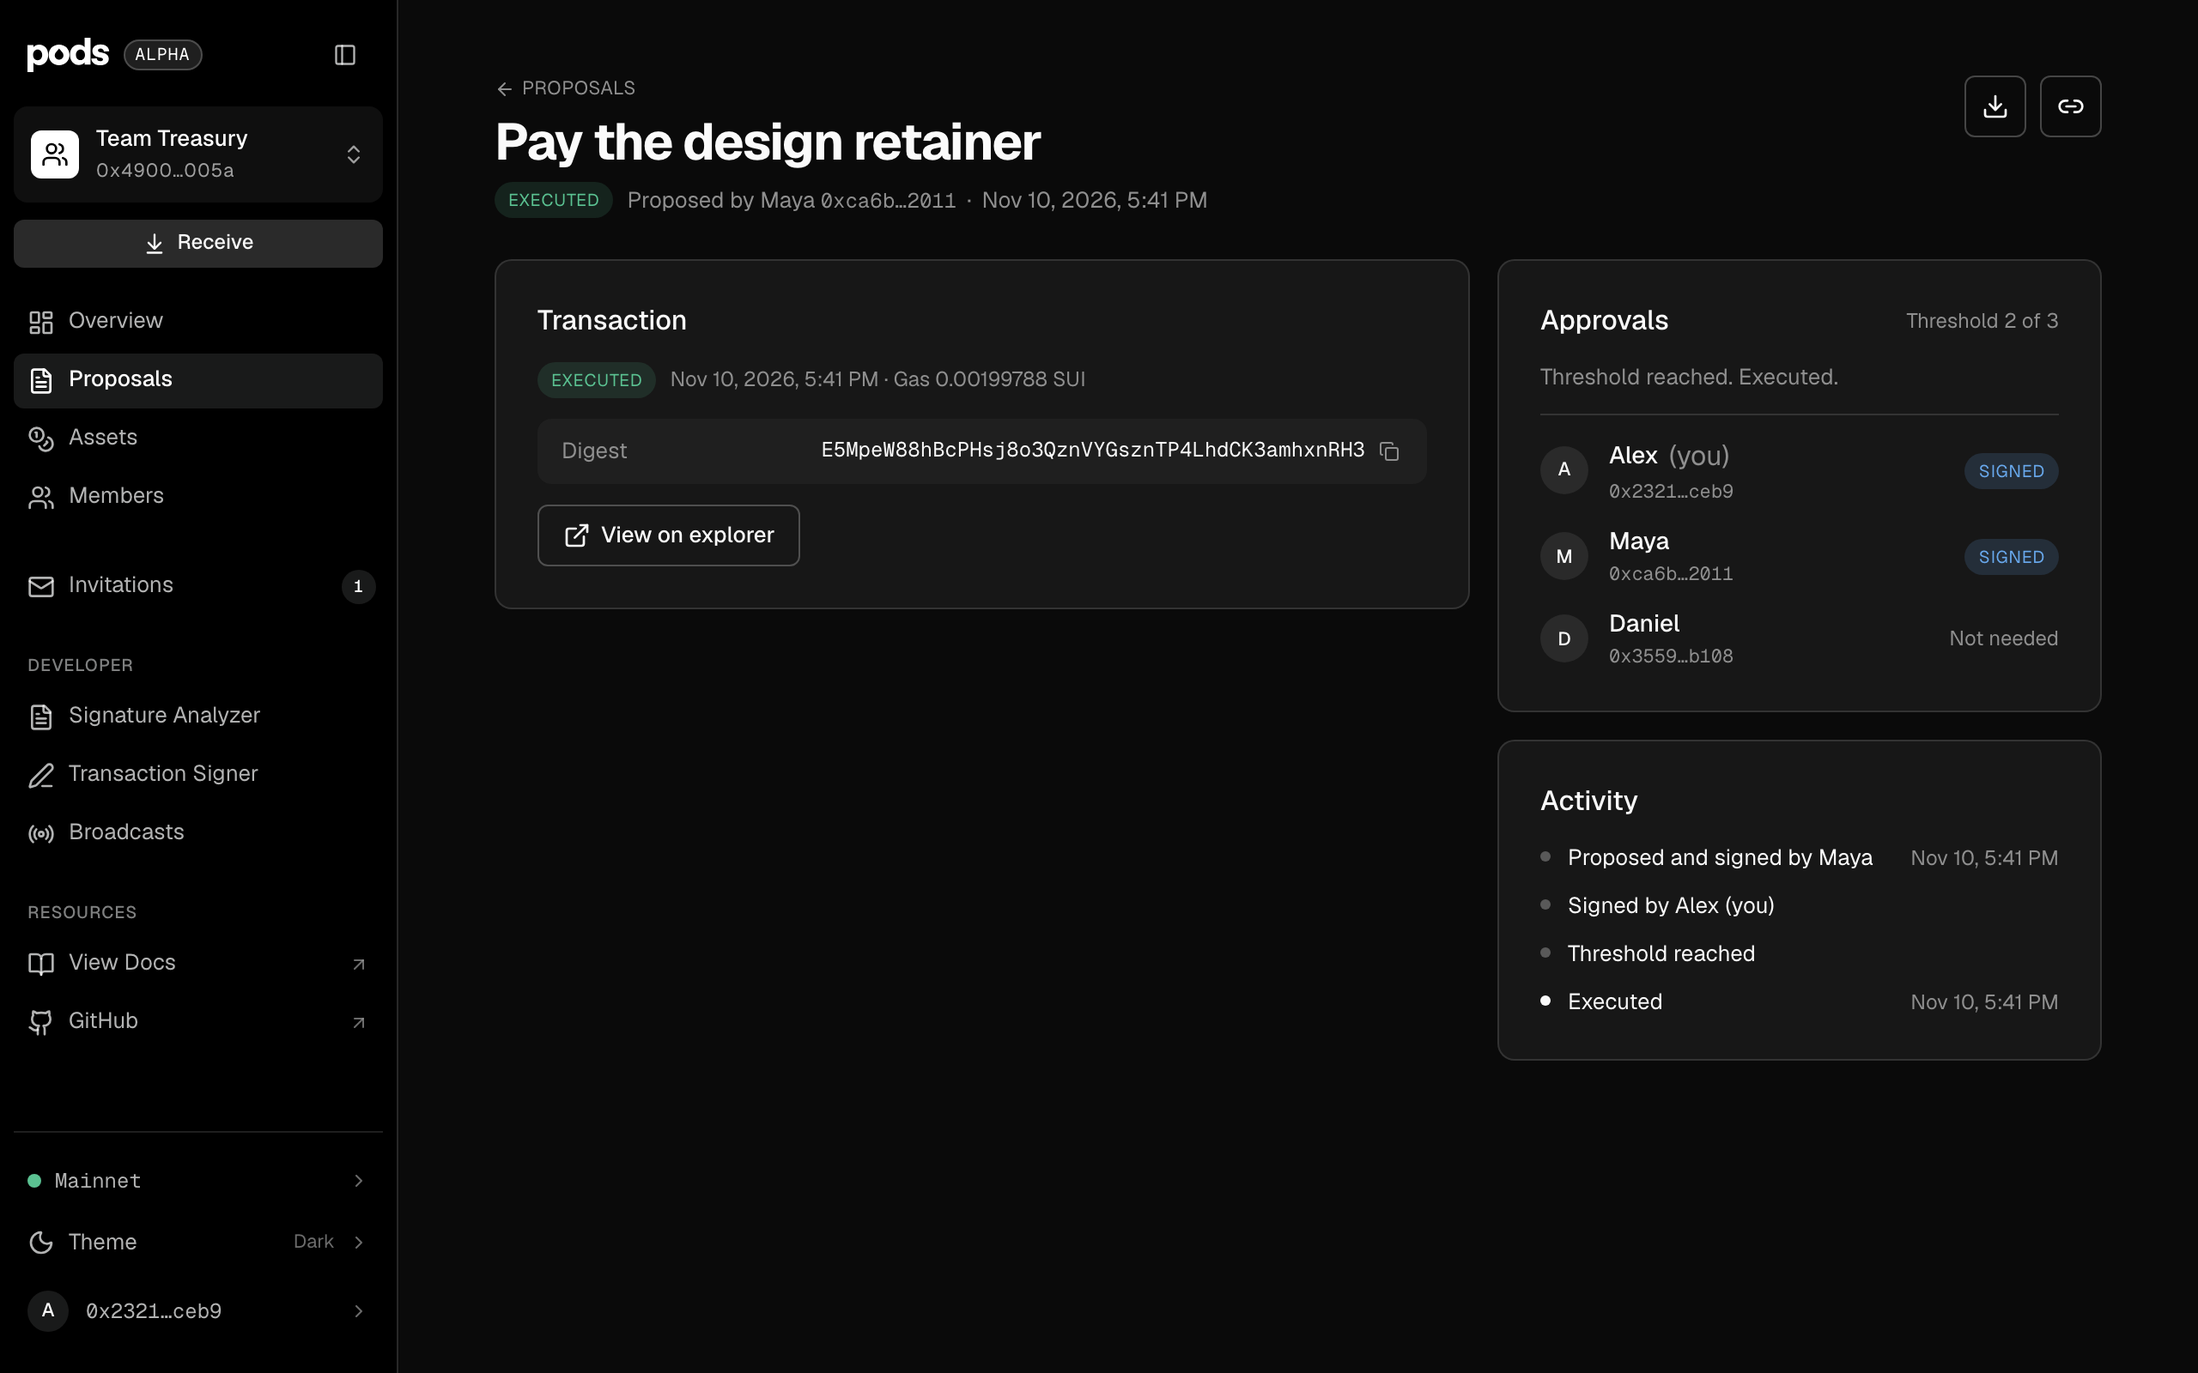
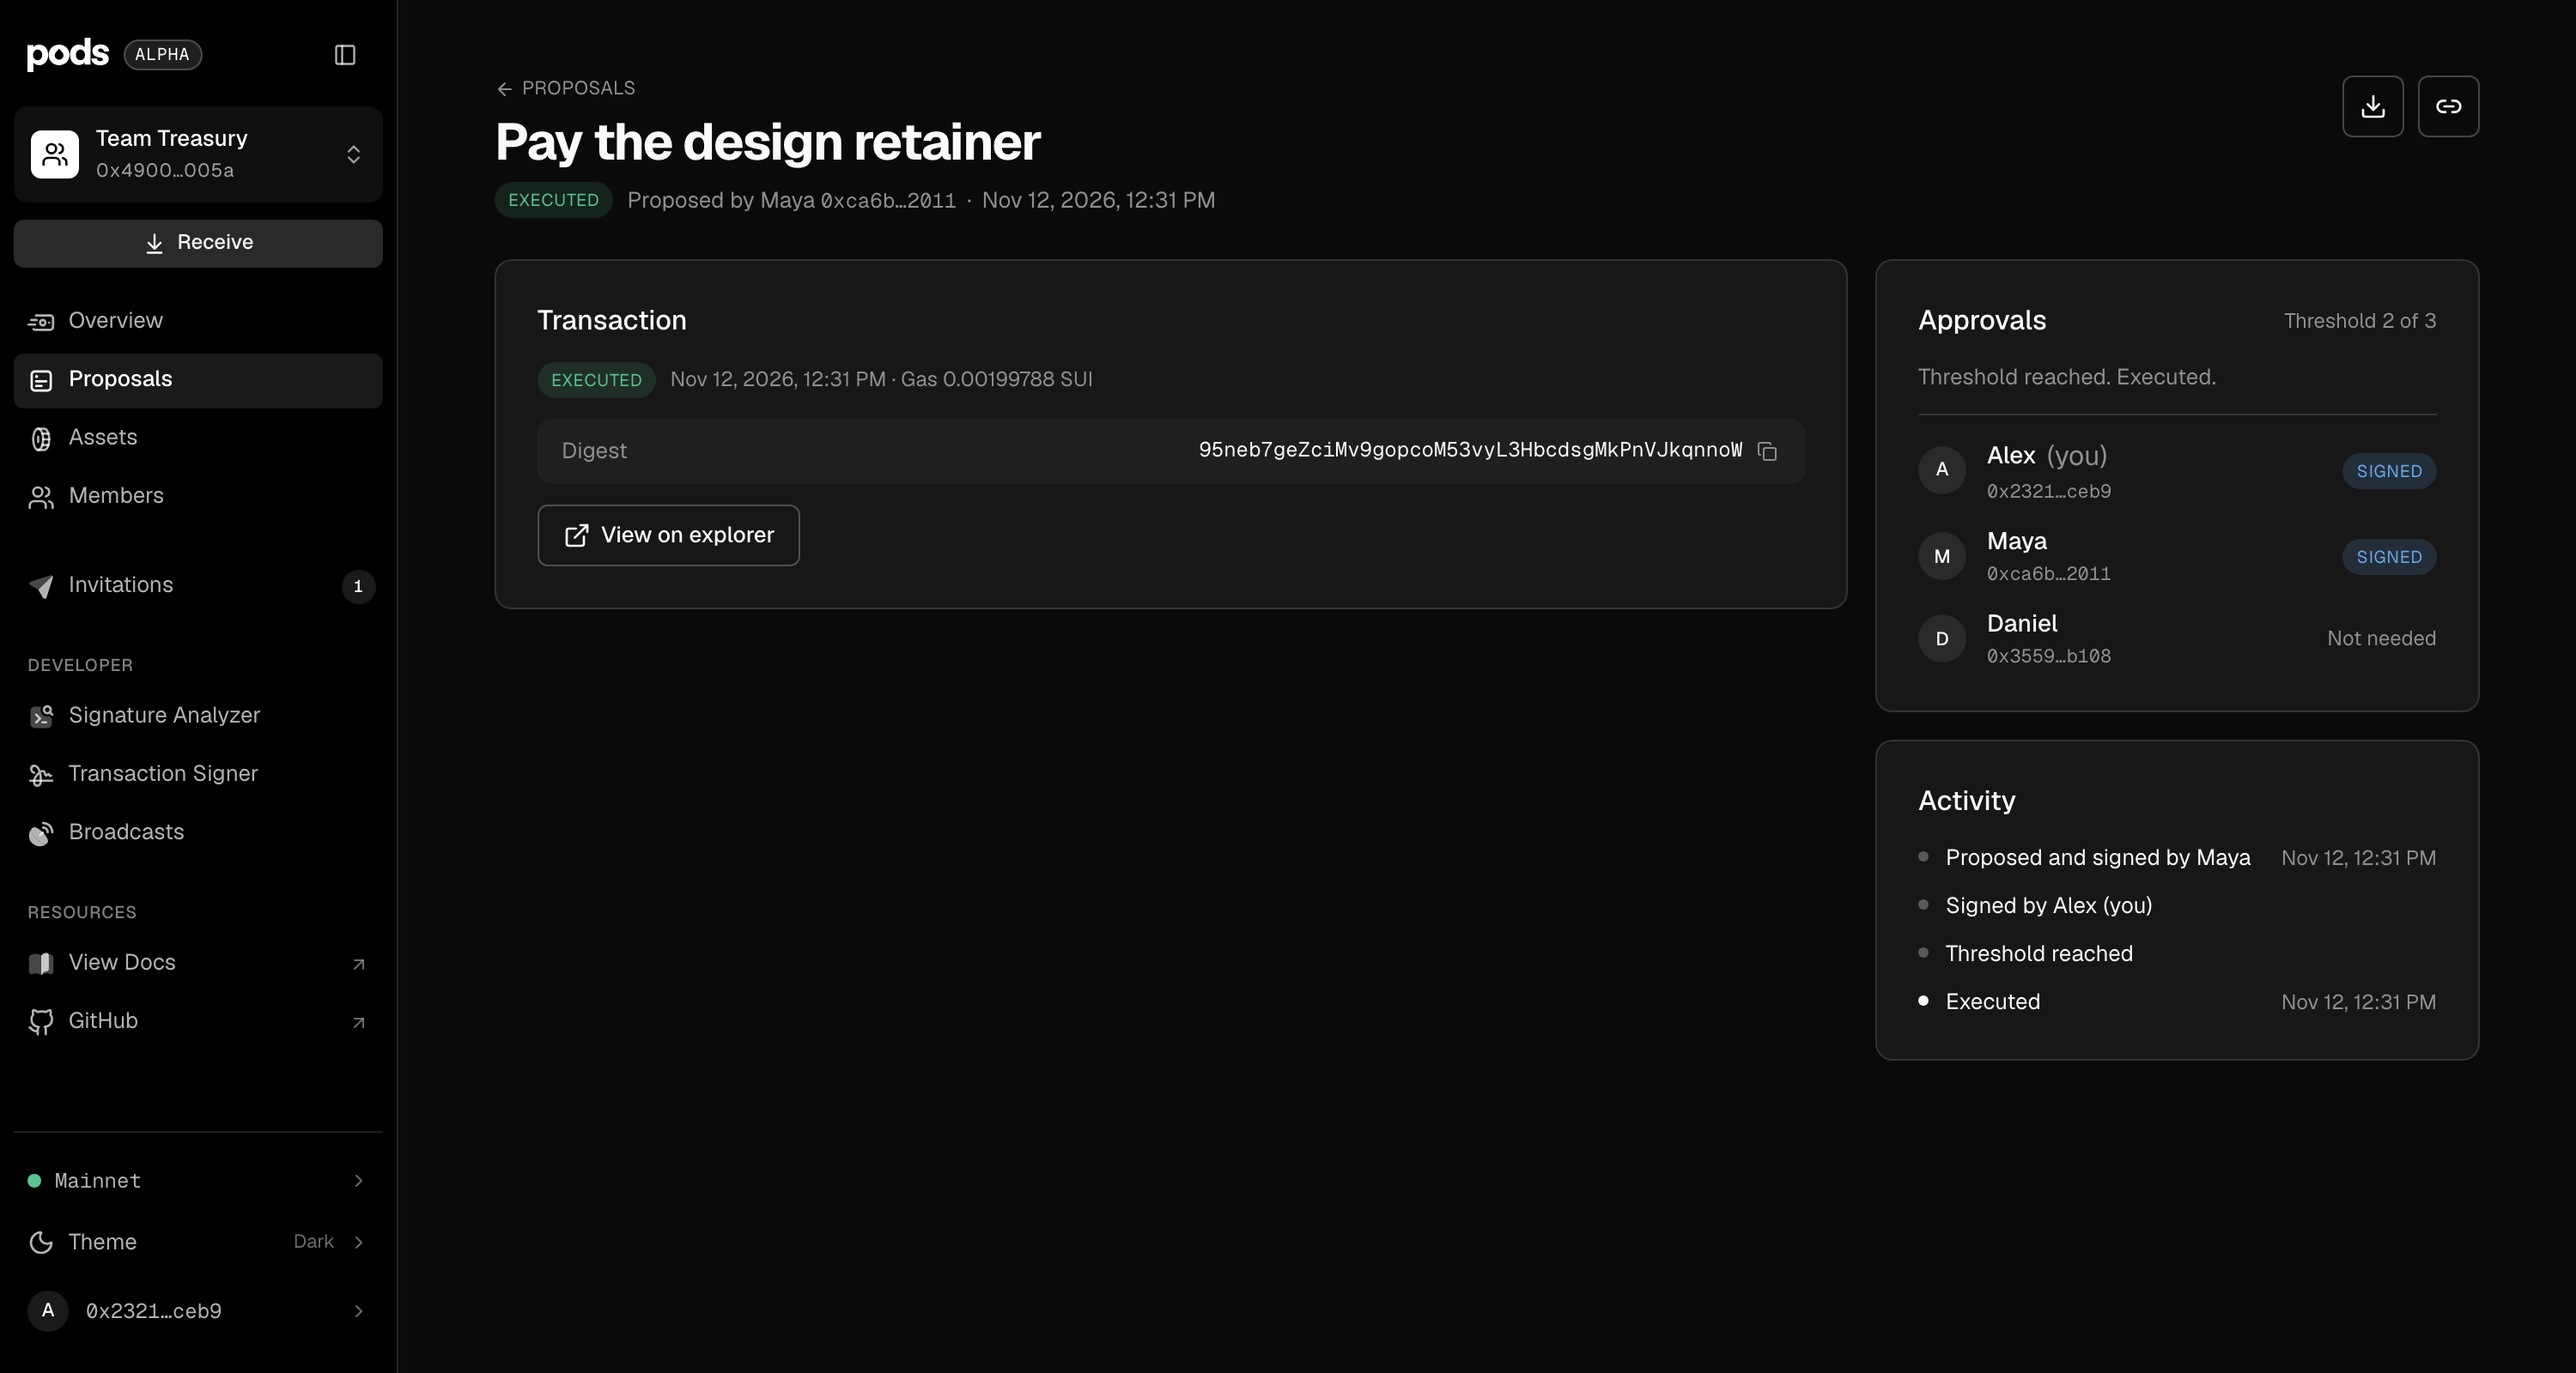
docs: Retake the app screenshots in a wider frame
The first eight shots are now taken at 1500×800 instead of 1280×800,
so the transaction digest, the sender address and the Ledger hash each
stay on one line. The wallet and tools shots keep their 1600 width.

All 22 images are regenerated from current main, so they also show the
new sidebar icons, the pill tabs on Invitations, the longer owner
addresses and the verified-coin mark.

diff --git a/e2e/docs-screenshots.config.ts b/e2e/docs-screenshots.config.ts
@@ -18,10 +18,10 @@ export default defineConfig({
 	expect: { timeout: 30_000 },
 	reporter: 'list',
 	globalSetup: './global-setup.ts',
-	// One desktop frame for every shot.
+	// Wide enough that full addresses and digests fit on one line.
 	use: {
 		baseURL: E2E.appUrl,
-		viewport: { width: 1280, height: 800 },
+		viewport: { width: 1500, height: 800 },
 		deviceScaleFactor: 2,
 		colorScheme: 'light',
 		reducedMotion: 'reduce',
